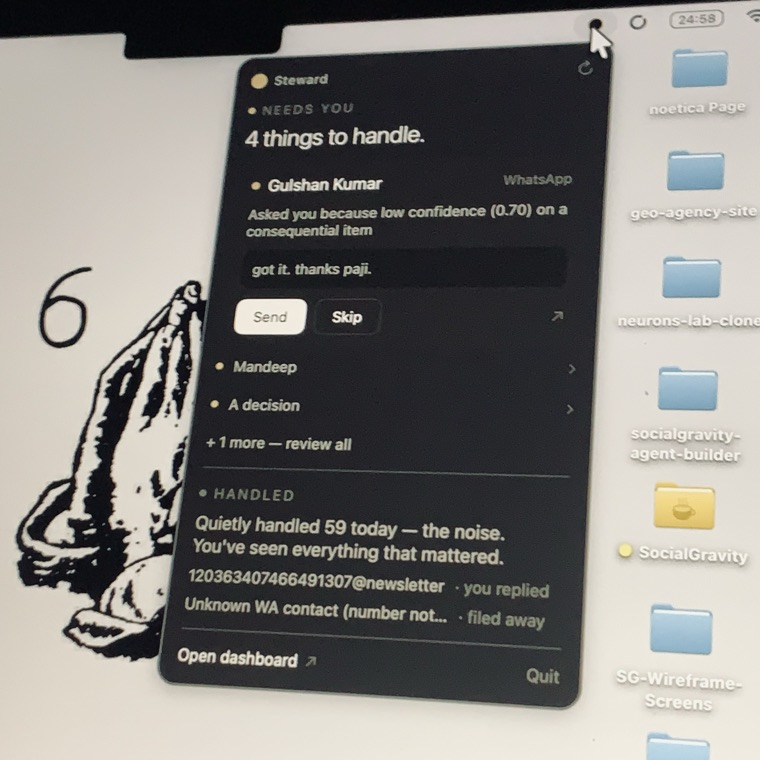
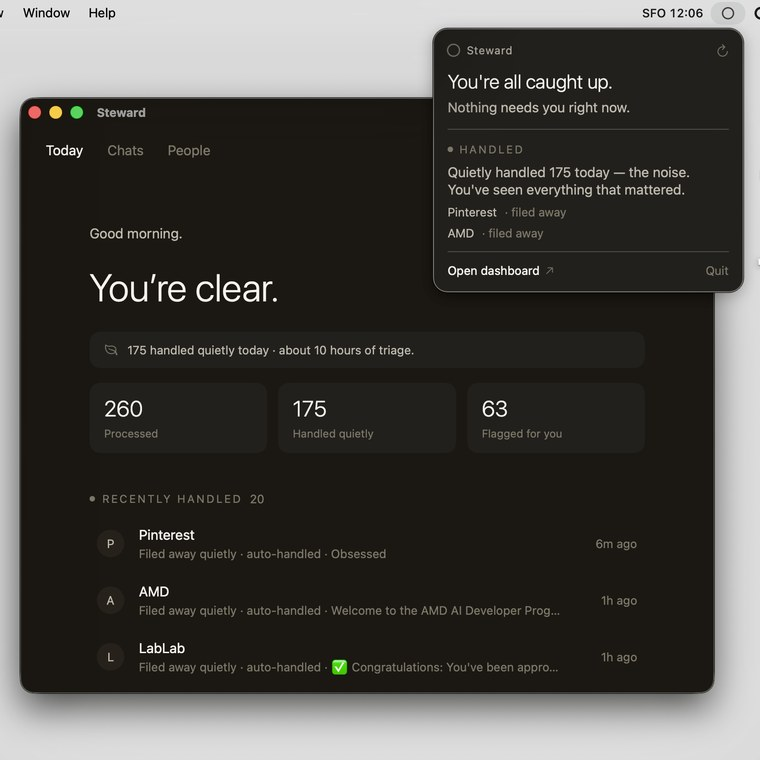
Swap in the real Steward screenshot for its tile (?v=2)
steward.jpg → the Steward "You're clear." dashboard + menu-bar popover, resized
to 760x760. Cache-busted with ?v=2.

diff --git a/src/components/projectsData.js b/src/components/projectsData.js
@@ -11,7 +11,7 @@ const projectsData = [
     tag: 'Live · ~74k LOC Python · 1,061 tests',
     desc: 'My phone never stops buzzing. Steward reads every email and WhatsApp, clears the noise, and wakes me only for the two that matter. 4,900 sorted, 95 ever sent.',
     featured: true,
-    image: '/work/steward.jpg',
+    image: '/work/steward.jpg?v=2',
   },
   {
     key: 1,
